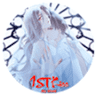
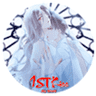
add VyNovel (#1036)
* add VyNovel

* Update vynovel.ts

* fix

diff --git a/src/plugins/english/vynovel.ts b/src/plugins/english/vynovel.ts
@@ -1,0 +1,176 @@
+import { Plugin } from '@typings/plugin';
+import { FilterTypes, Filters } from '@libs/filterInputs';
+import { defaultCover } from '@libs/defaultCover';
+import { fetchApi } from '@libs/fetch';
+import { NovelStatus } from '@libs/novelStatus';
+import { load as parseHTML } from 'cheerio';
+import dayjs from 'dayjs';
+
+class VyNovel implements Plugin.PluginBase {
+  id = 'vynovel';
+  name = 'VyNovel';
+  site = 'https://vynovel.com';
+  version = '1.0.0';
+  icon = 'src/en/vynovel/icon.png';
+
+  async fetchNovels(
+    page: number,
+    {
+      filters,
+      showLatestNovels,
+    }: Plugin.PopularNovelsOptions<typeof this.filters>,
+    searchTerm?: string,
+  ): Promise<Plugin.NovelItem[]> {
+    const data = new URLSearchParams({
+      sort: showLatestNovels ? 'updated_at' : filters?.sort?.value || 'viewed',
+      page,
+    });
+    if (searchTerm) data.append('q', searchTerm);
+
+    const url = this.site + '/search?' + data.toString();
+
+    const body = await fetchApi(url).then(res => res.text());
+    const loadedCheerio = parseHTML(body);
+
+    const novels: Plugin.NovelItem[] = [];
+    loadedCheerio('div[class="comic-item"] > a').each((index, element) => {
+      const name = loadedCheerio(element)
+        .find('div[class="comic-title"]')
+        .text()
+        ?.trim();
+      const cover =
+        loadedCheerio(element)
+          .find('div[class="comic-image lozad "]')
+          .attr('data-background-image') || defaultCover;
+      const url = loadedCheerio(element).attr('href');
+
+      if (!name || !url) return;
+
+      novels.push({ name, cover, path: url.replace('/novel/', '') });
+    });
+
+    return novels;
+  }
+
+  popularNovels = this.fetchNovels;
+
+  async searchNovels(
+    searchTerm: string,
+    page: number,
+  ): Promise<Plugin.NovelItem[]> {
+    const defaultOptions: any = {
+      filters: undefined,
+      showLatestNovels: false,
+    };
+    return this.fetchNovels(page, defaultOptions, searchTerm);
+  }
+
+  async parseNovel(novelPath: string): Promise<Plugin.SourceNovel> {
+    const body = await fetchApi(this.resolveUrl(novelPath, true)).then(res =>
+      res.text(),
+    );
+    const loadedCheerio = parseHTML(body);
+
+    const novel: Plugin.SourceNovel = {
+      path: novelPath,
+      name: loadedCheerio('h1[class="title"]').text().trim(),
+      cover:
+        loadedCheerio('div[class="img-manga"] > img').attr('src') ||
+        defaultCover,
+      summary: loadedCheerio('div[class="summary"] > p[class="content"]')
+        .text()
+        .trim(),
+      author: loadedCheerio('div[class="col-md-7"] > p:nth-child(5) > a')
+        .text()
+        .trim(),
+      status:
+        loadedCheerio('span[class="text-ongoing"]').text() === 'Ongoing'
+          ? NovelStatus.Ongoing
+          : NovelStatus.Completed,
+    };
+
+    const chapters: Plugin.ChapterItem[] = [];
+    const totalChapters = loadedCheerio('div[class="list-group"] > a').length;
+
+    loadedCheerio('div[class="list-group"] > a').each(
+      (chapterIndex, element) => {
+        const name = loadedCheerio(element).find('span').text().trim();
+        const id = loadedCheerio(element).attr('id')?.replace(/\D/g, '');
+        if (!name || !id) return;
+
+        const releaseDate = loadedCheerio(element).find('p').text();
+        chapters.push({
+          name,
+          path: novelPath + '/' + id,
+          releaseTime: this.parseDate(releaseDate?.trim()),
+          chapterNumber: totalChapters - chapterIndex,
+        });
+      },
+    );
+
+    novel.chapters = chapters.reverse();
+    return novel;
+  }
+
+  async parseChapter(chapterPath: string): Promise<string> {
+    const body = await fetchApi(this.resolveUrl(chapterPath)).then(res =>
+      res.text(),
+    );
+    const loadedCheerio = parseHTML(body);
+
+    const chapterText = loadedCheerio('.content').html();
+    return chapterText || '';
+  }
+
+  parseDate = (date = '') => {
+    if (!date) return null;
+    if (date.includes('ago')) {
+      const [value, type] = date.split(' ');
+      if (!value || !type) return null;
+
+      switch (type.toLowerCase()) {
+        case 'minutes': {
+          const minutes = parseInt(value, 10);
+          date = Date.now() - minutes * 60 * 1000;
+          break;
+        }
+        case 'hour':
+        case 'hours': {
+          const hours = parseInt(value, 10);
+          date = Date.now() - hours * 60 * 60 * 1000;
+          break;
+        }
+        case 'day':
+        case 'days': {
+          const days = parseInt(value, 10);
+          date = Date.now() - days * 24 * 60 * 60 * 1000;
+          break;
+        }
+        default:
+          console.log(date);
+          date = undefined;
+      }
+      return dayjs(date).format('LLL');
+    }
+    return date;
+  };
+
+  resolveUrl = (path: string, isNovel?: boolean) =>
+    this.site + (isNovel ? '/novel/' : '/read/') + path;
+
+  filters = {
+    sort: {
+      label: 'Sort By:',
+      value: 'viewed',
+      options: [
+        { label: 'Viewed', value: 'viewed' },
+        { label: 'Scored', value: 'scored' },
+        { label: 'Newest', value: 'created_at' },
+        { label: 'Latest Update', value: 'updated_at' },
+      ],
+      type: FilterTypes.Picker,
+    },
+  } satisfies Filters;
+}
+
+export default new VyNovel();

diff --git a/scripts/icon_reloading.js b/scripts/icon_reloading.js
@@ -27,13 +27,15 @@ const skip = new Set([
   'wuxiaworld.site',
 ]);
 
+const folder = path.join('public', 'static');
+
 const used = new Set([
-  path.join('public', 'icons', 'coverNotAvailable.webp'),
-  path.join('public', 'icons', 'siteNotAvailable.png'),
+  path.join(folder, 'coverNotAvailable.webp'),
+  path.join(folder, 'siteNotAvailable.png'),
 ]);
 
 const notAvailableImage = fs.readFileSync(
-  path.join('public', 'icons', 'siteNotAvailable.png'),
+  path.join(folder, 'siteNotAvailable.png'),
 );
 
 (async () => {
@@ -48,8 +50,9 @@ const notAvailableImage = fs.readFileSync(
   console.log('\nDownloading icons ⌛');
   let language;
   for (let plugin in plugins) {
-    const { id, name, site, iconUrl, lang } = plugins[plugin];
-    const icon = iconUrl && 'public/icons/' + iconUrl.split('icons/')[1];
+    const { id, name, site, iconUrl, lang, customJS, customCSS } =
+      plugins[plugin];
+    const icon = iconUrl && path.join(folder, iconUrl.split('/static/')[1]);
 
     if (language !== lang) {
       language = lang;
@@ -61,7 +64,13 @@ const notAvailableImage = fs.readFileSync(
     }
 
     try {
-      if (icon) used.add(path.join(icon));
+      if (customJS) {
+        used.add(path.join(folder, customJS.split('/static/')[1]));
+      }
+      if (customCSS) {
+        used.add(path.join(folder, customCSS.split('/static/')[1]));
+      }
+      if (icon) used.add(icon);
       if (!skip.has(id) && icon && site) {
         const image = await fetch(
           `https://www.google.com/s2/favicons?domain=${site}&sz=${size}&type=png`,
@@ -121,7 +130,7 @@ const notAvailableImage = fs.readFileSync(
   }
   console.log('\nDeleting unused icons  ⌛');
 
-  fileList(path.join('public', 'icons')).forEach(path => {
+  fileList(folder).forEach(path => {
     if (!used.has(path)) {
       console.log('🗑️', path);
       fs.rmSync(path, { force: true });

diff --git a/scripts/multisrc/hotnovelpub/template.ts b/scripts/multisrc/hotnovelpub/template.ts
@@ -115,7 +115,7 @@ class HotNovelPubPlugin implements Plugin.PluginBase {
     );
 
     let chapterText =
-      body.match(/<div id="content-item" ([\s\S]*?)<\/div>/g)?.[0] || '';
+      body.match(/<div id="content-item" ([\s\S]*?)<\/div>/)?.[0] || '';
 
     if (chapterText) {
       const result = await fetchApi(

diff --git a/scripts/multisrc/ifreedom/template.ts b/scripts/multisrc/ifreedom/template.ts
@@ -140,7 +140,7 @@ class IfreedomPlugin implements Plugin.PluginBase {
       res.text(),
     );
     let chapterText =
-      body.match(/<article id="([\s\S]*?)<\/article>/g)?.[0] || '';
+      body.match(/<article id="([\s\S]*?)<\/article>/)?.[0] || '';
     chapterText = chapterText.replace(/<script[^>]*>[\s\S]*?<\/script>/gim, '');
 
     if (chapterText.includes('<img')) {

diff --git a/src/plugins/russian/authortoday.ts b/src/plugins/russian/authortoday.ts
@@ -175,7 +175,7 @@ class AuthorToday implements Plugin.PluginBase {
   }
 
   resolveUrl = (path: string, isNovel?: boolean) =>
-    isNovel ? this.site + '/work/' + path : this.site + '/reader/' + path;
+    this.site + (isNovel ? '/work/' : '/reader/') + path;
 
   user: authorization | undefined;
   getUser = async () => {